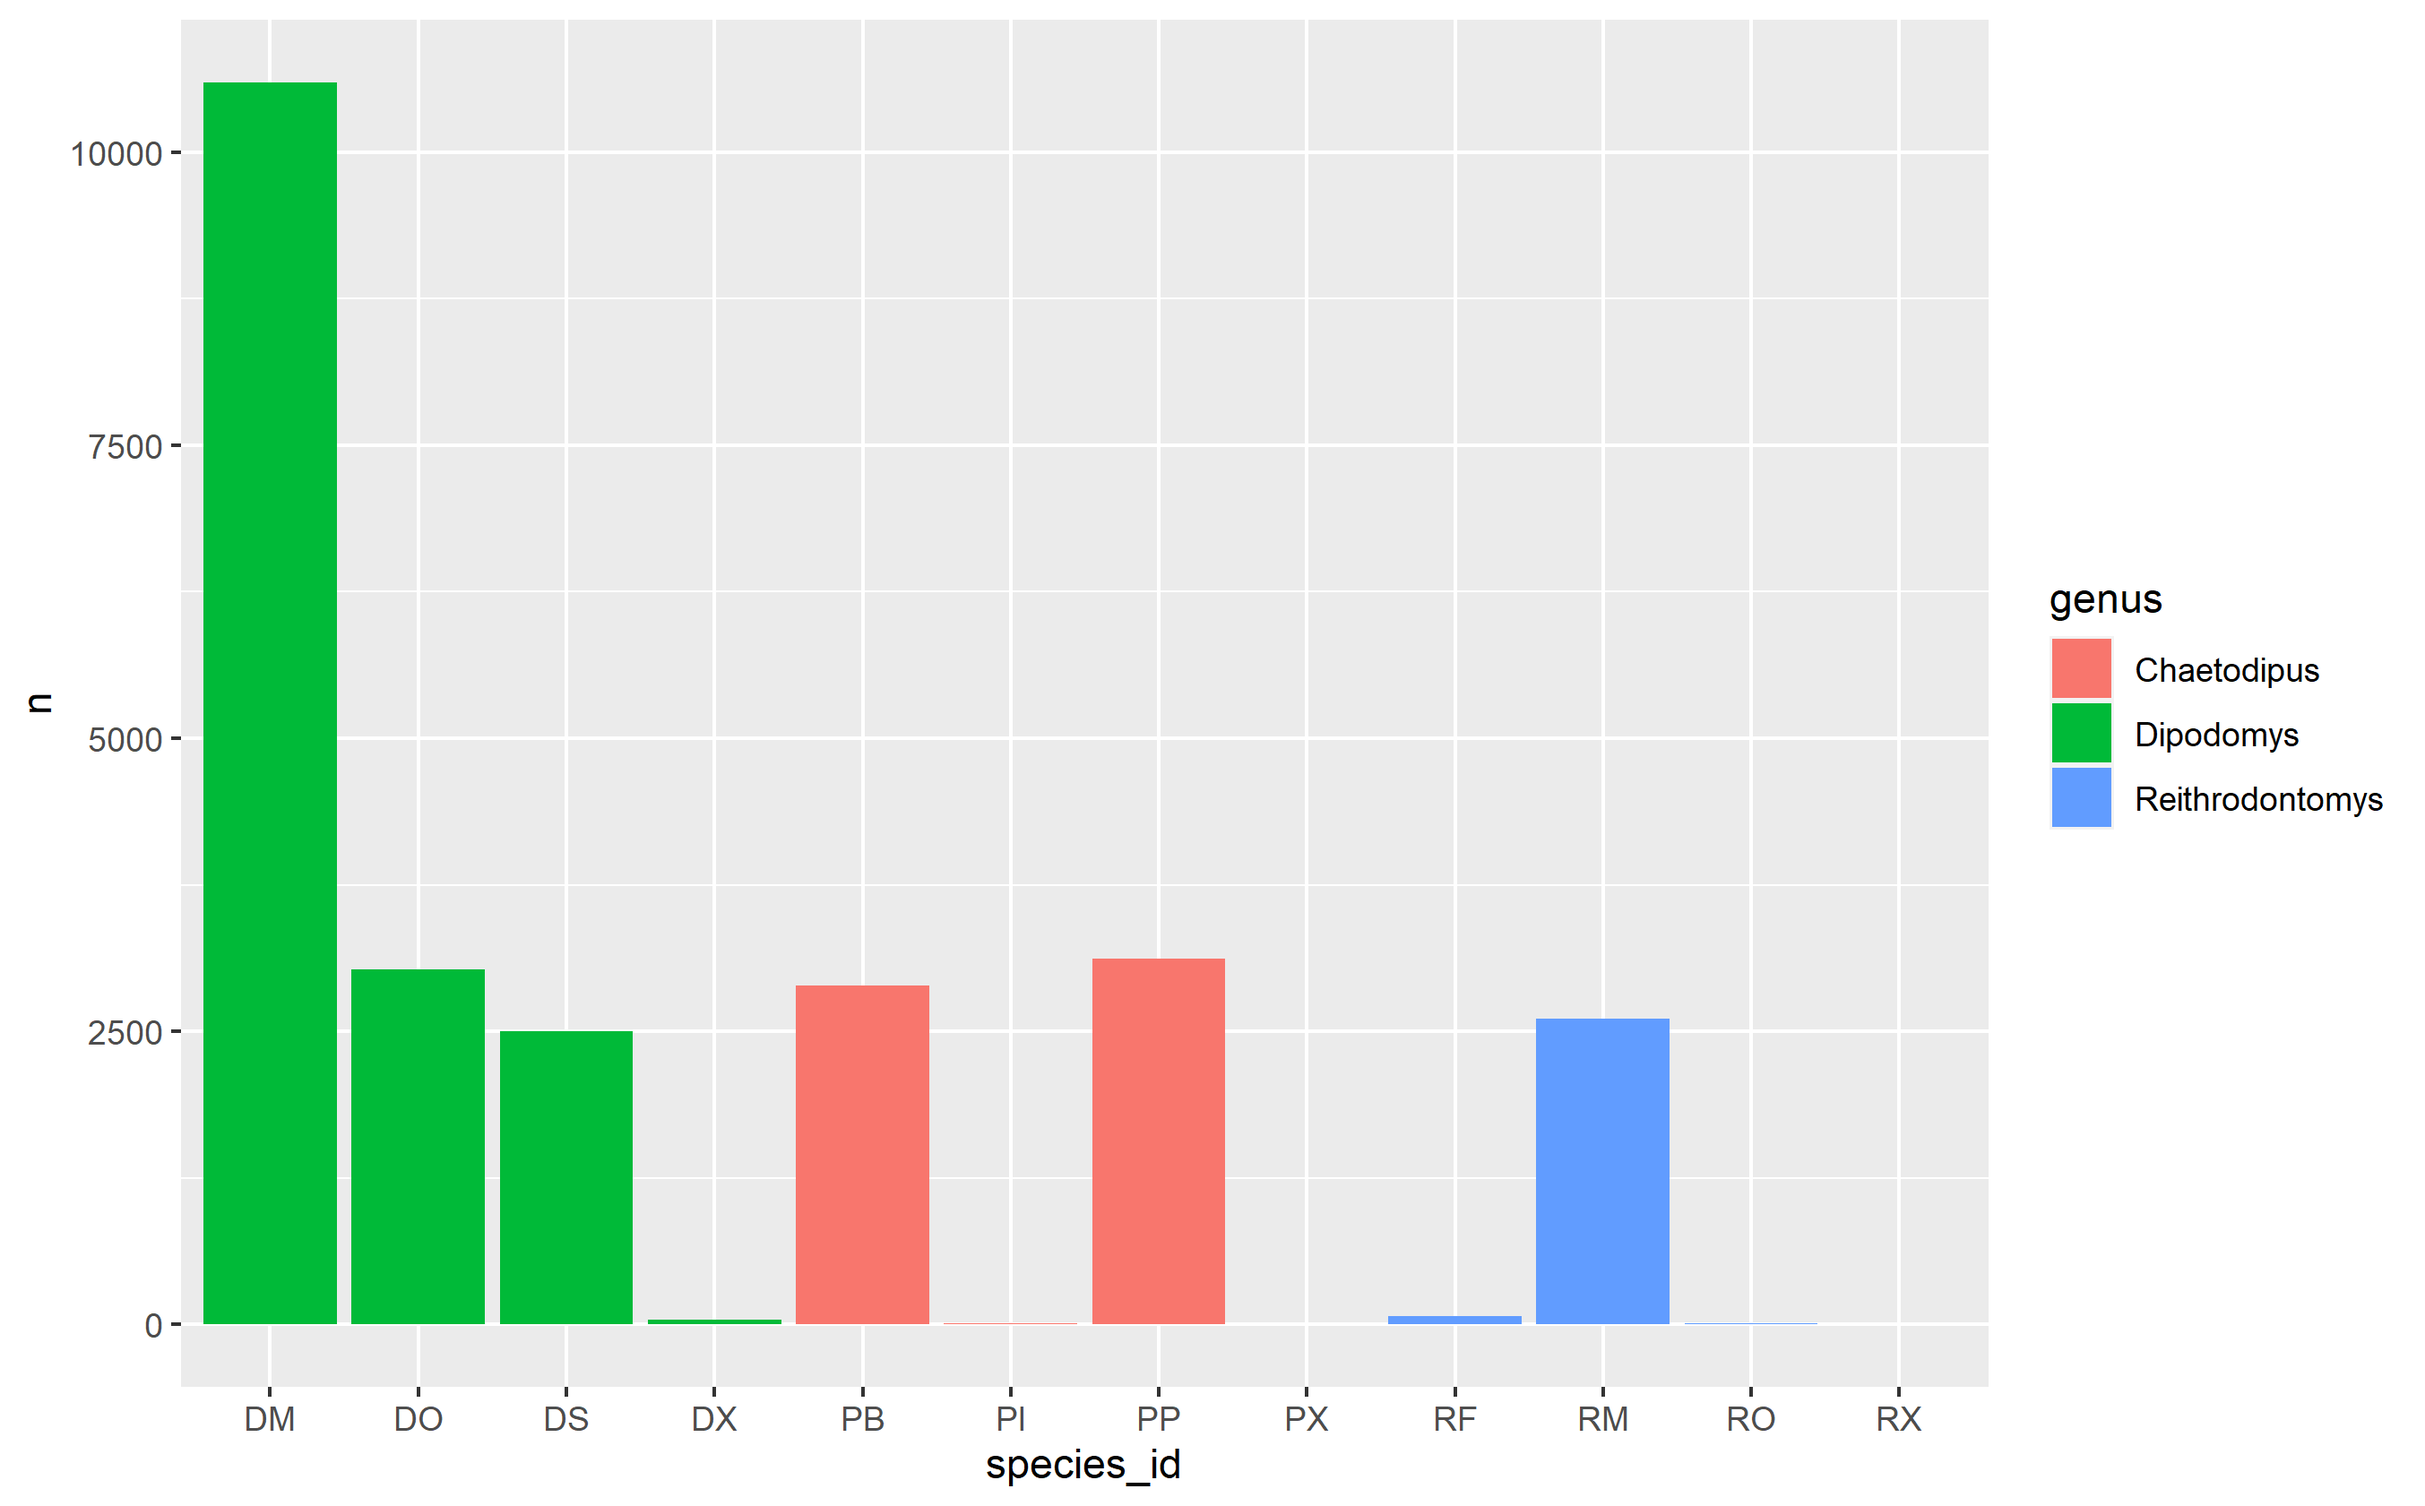
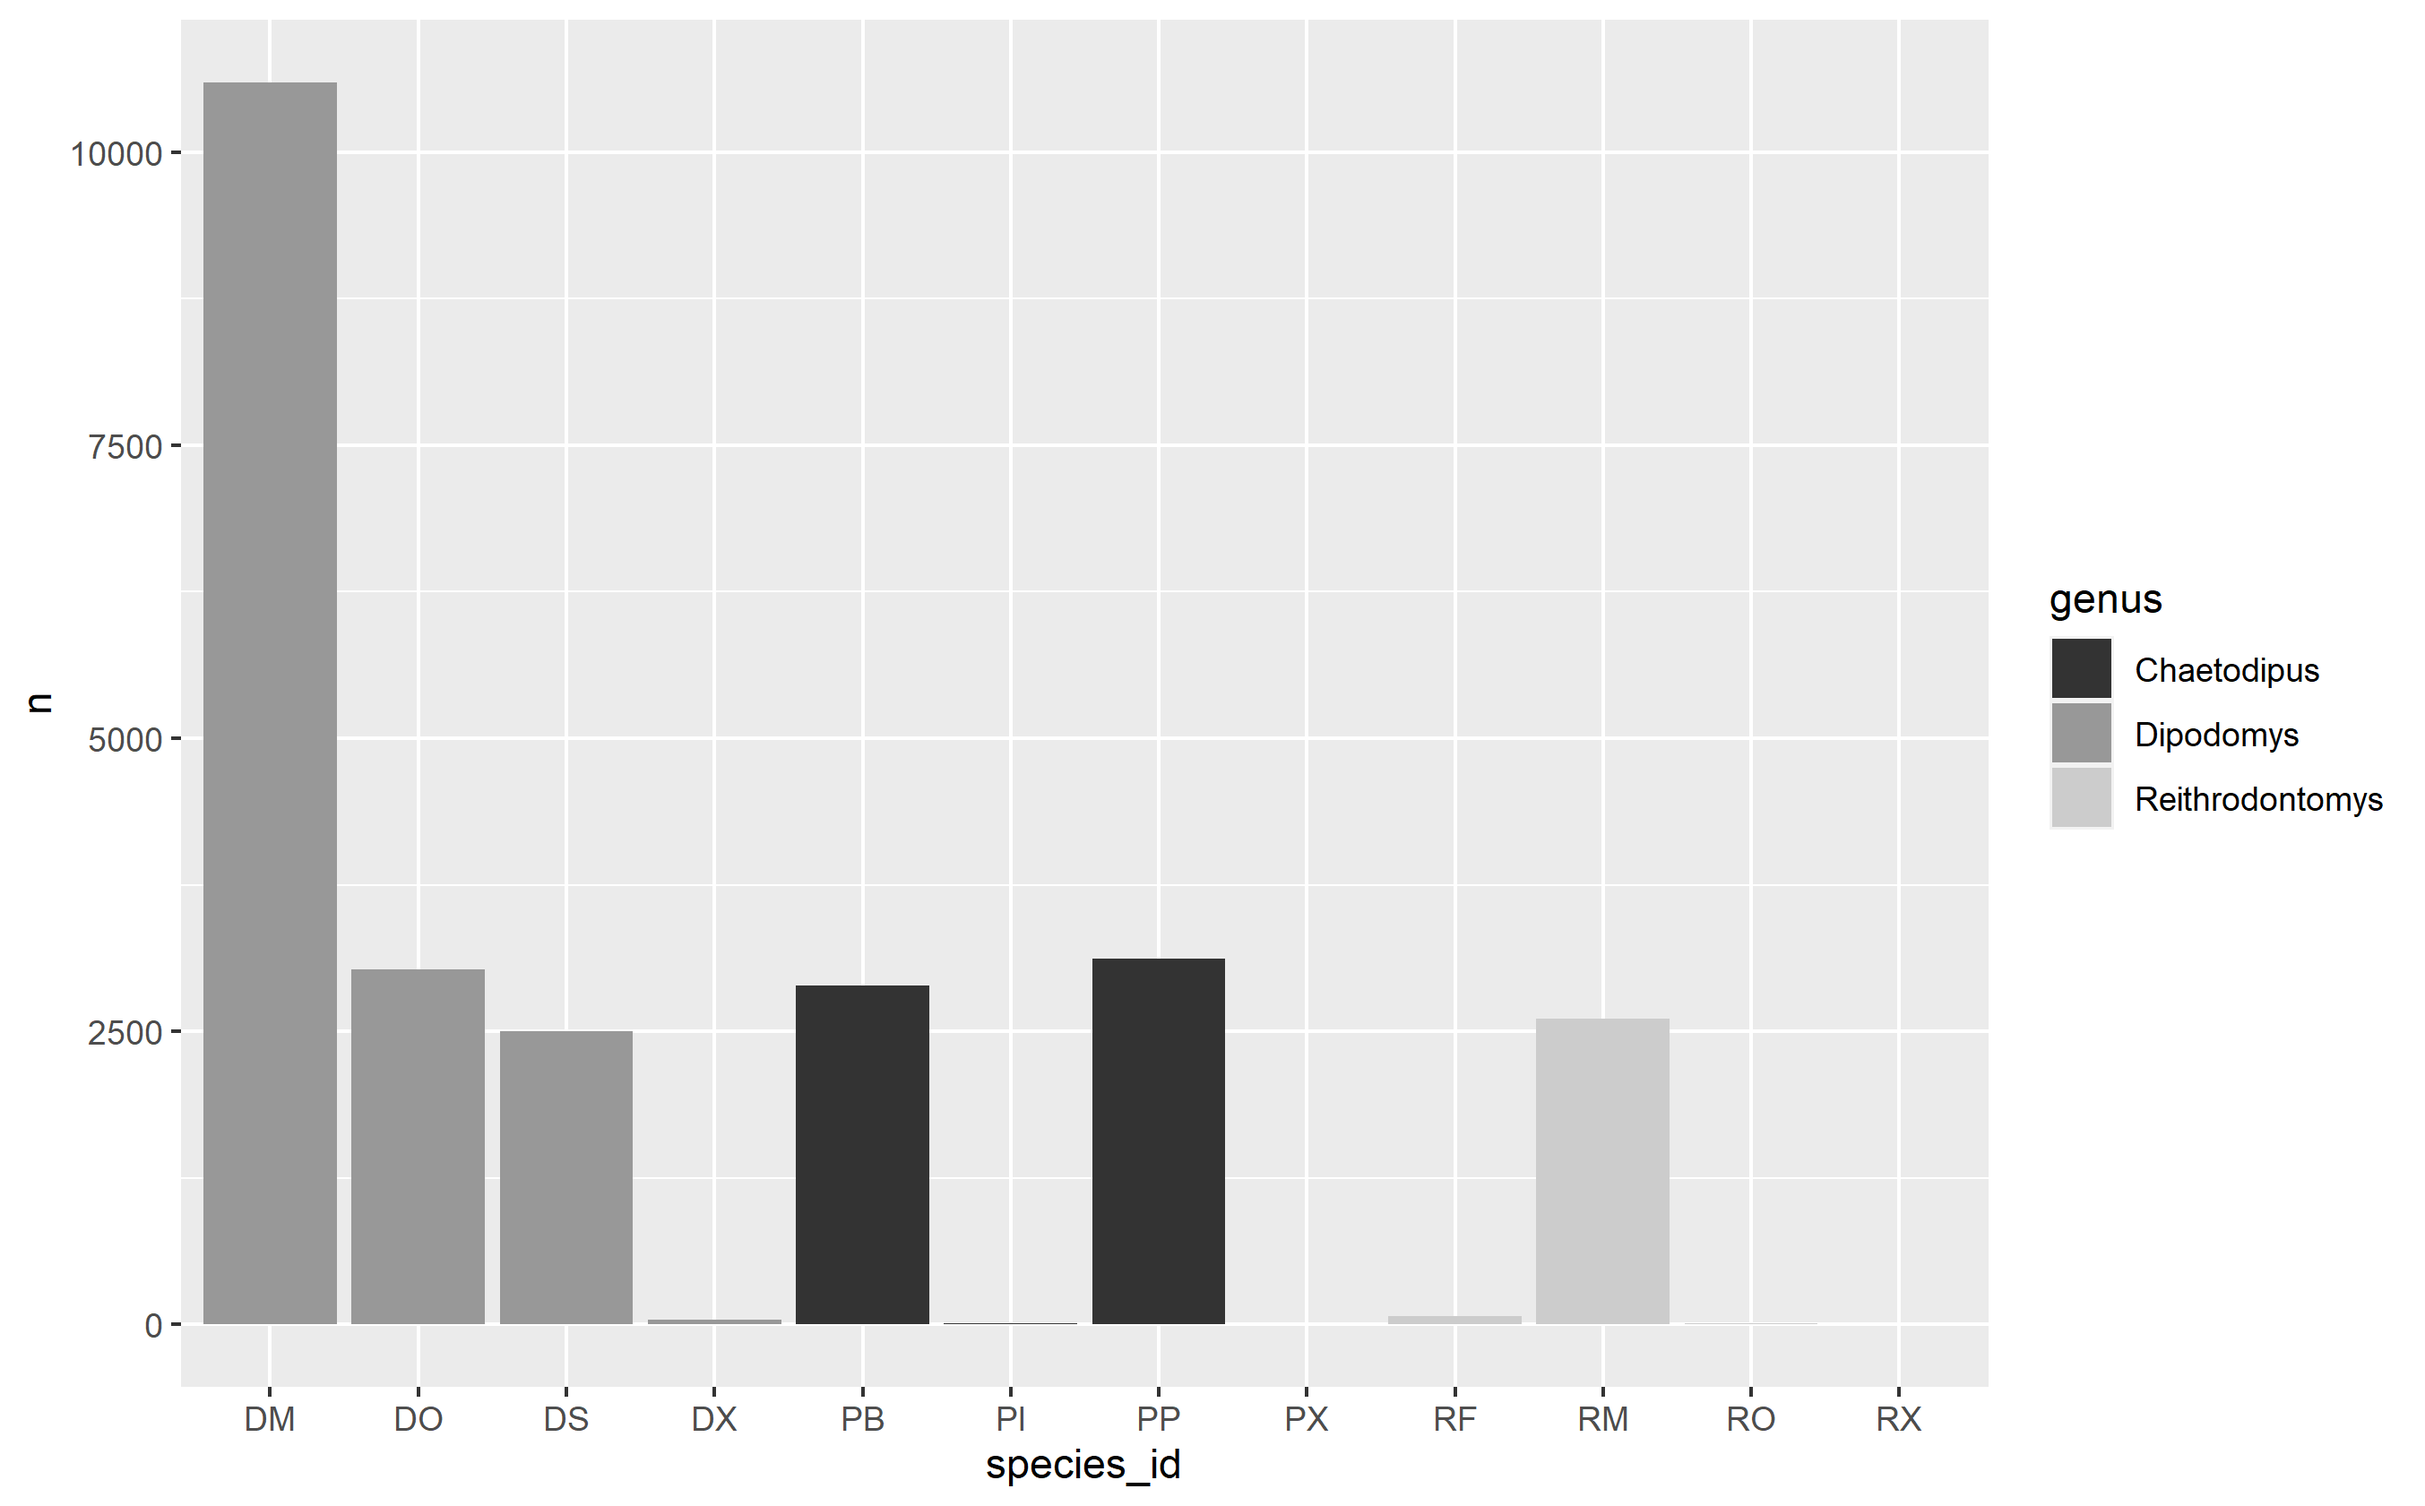
changed to grey scale
This closes issue #3

diff --git a/README.md b/README.md
@@ -1,9 +1,51 @@
-# furry-giggle
+# A suggested structure for tracking scripts related to a paper
 
-Hello World
+Testing structure for tracking/organizing scripts that create plots/tables for publications:
 
-something
+* All data in a single 'data' folder (_or loaded directly by scripts in this repo from another online repository_)
 
-Something else
+* One folder for each small script that produces a plot and/or table (_keeping separate analyses separate as much as possible_), with outputs from each script kept in the same folder.
 
-Both a local edit and an online edit
+* This README file to show the figures (and links to tables) intended to go in a paper, ordered by paper section, and including the intended Title and Caption (_click on the dropdown at the topleft to get a quick overview via the TOC_).
+
+Editing the publication draft 'body' text happens in an appropriate platform (e.g. using track changes in Word), but only links to figures/tables in GitHub[^footnote1] are included in the draft while analysis/formatting is ongoing (_i.e. avoid pasting a figure/table into the text if it might need to be changed later_).
+
+When analysis is complete, and plots/tables are in their final form, they can then be incorporated with main text[^footnote2].
+
+
+Key thing: ***every plot/table is kept with the script that made it***, so it can be inspected/corrected easily if need be (_click on the link/figure, and then open the containing folder to see - and comment on - the script that generated it_); no time wasted trying to paste every new version of a plot into the Word doc (and probably making mistakes with versions).
+
+
+## Paper
+
+_Should include details about the paper here - e.g. the running title, where to find the draft, a basic summary, etc. .. when the paper is published, this can be updated, and the repo can be made public (if desired) to share the code used in the paper._
+
+
+## Datasets
+
+Some basic information about the data used should go here.
+
+
+## Results
+
+### Counts of species in most diverse genera - table
+
+Title: Counts of species observed in the three most diverse genera
+
+[species count table](output_species_count/species_counts_table.csv)
+
+
+### Counts of species in most diverse genera - plot
+
+Title: Relative counts of species observed in three most diverse genera
+
+Caption: Species counts were conducted as per the methodology described in the Methods section. Genera with more than 3 observed species were considered 'diverse', with relative counts shown here.
+
+![species count barplot](output_species_count/species_counts_barplot.png)
+
+
+[^footnote1]: To get the link to a subheading in this README, move the mouse to the left of the subheading and right-click on the chain-link icon that appears, and then select 'Copy link address'. To link directly to the figure/table, click on the appropriate figure/table link in this README (or navigate to its position in the repo), and then copy the URL from the navigation bar.
+
+[^footnote2]: To transfer tables into Word in preparation for publication, open the csv file in Notepad (if on your computer, else look for the 'Raw' button in GitHub), copy and paste the contents into Word, and do the following: select the text that you want to convert, and then click Insert > Table > Convert Text to Table; in the Convert Text to Table box, choose the options you want. Under Table size, make sure the numbers match the numbers of columns and rows you want. 
+
+
